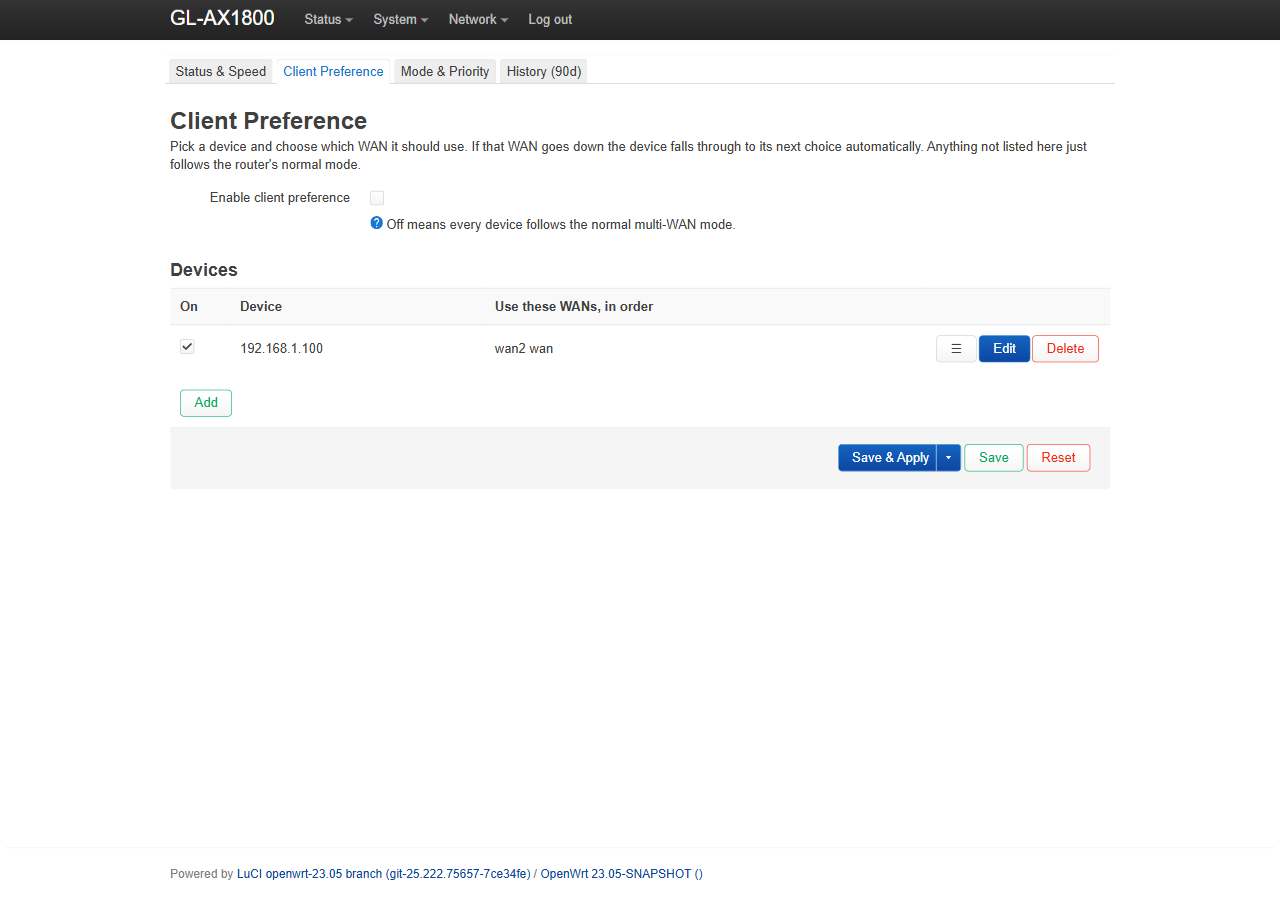
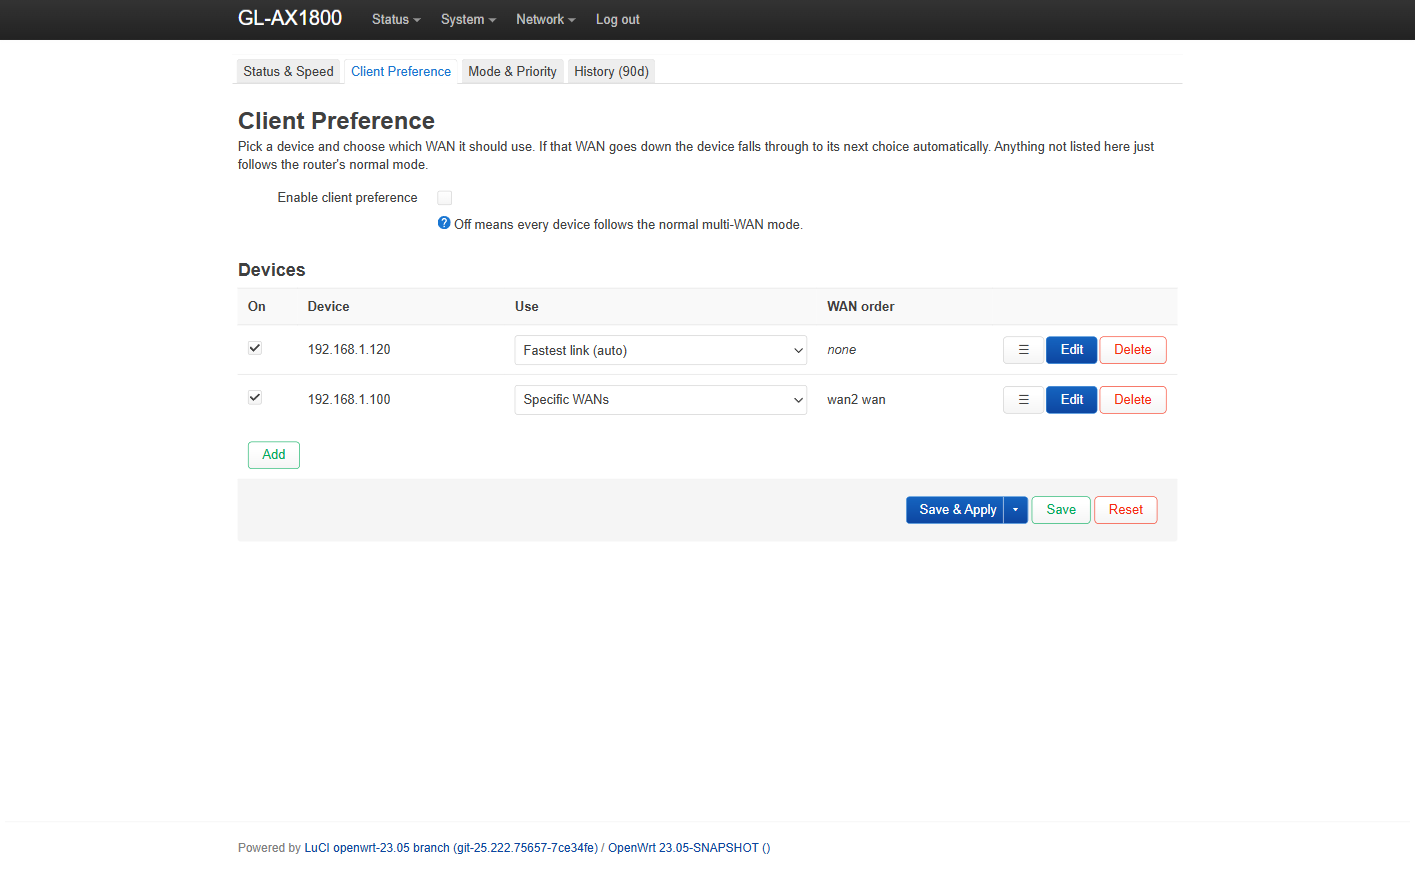
Client preference roles (fastest/slowest/backup); rename to MultiKmwan
- Client rules gain a mode: order | fastest | slowest | backup, resolved each
  sync so role clients follow the latest measurements
- Full rename MultiKwan -> MultiKmwan (package, config, paths, ubus, repo)
- Per-WAN colours consistent across cards, graphs and history
- Fastest mode, up/down split graph, rank-by selector, metered links
- Persistence via uci-defaults (survives upgrade/reinstall/remove)
- Simplified README; full docs in the wiki

diff --git a/htdocs/luci-static/resources/view/multikmwan/overview.js b/htdocs/luci-static/resources/view/multikmwan/overview.js
@@ -183,7 +183,9 @@ return view.extend({
 				_('No client rules configured. Add devices on the Client Preference page.'));
 
 		var prefOff = (d.enabled !== '1');
+		var roleLabel = { fastest: _('Fastest link'), slowest: _('Slowest link'), backup: _('Backup link') };
 		var rows = clients.map(function(c) {
+			var role = c.mode && c.mode !== 'order' ? c.mode : null;
 			var order = (c.order || '').trim().split(/\s+/).filter(Boolean);
 			var live = c.live && !prefOff;
 			var badge = c.enabled !== '1'
@@ -195,12 +197,14 @@ return view.extend({
 				E('span', { 'class': 'mk-pill mk-' + badge.cls }, badge.t),
 				E('b', {}, (c.label && c.label !== '') ? c.label : c.src),
 				E('span', { 'class': 'mk-dim' }, ' ' + c.src + '  →  '),
-				E('span', {}, order.map(function(w, i) {
-					return E('span', {}, [
-						E('span', { 'class': 'mk-dot',
-							'style': 'background:' + (wanColor[w] || '#888') }),
-						w + (i < order.length - 1 ? '  ›  ' : '') ]);
-				}))
+				role
+					? E('b', {}, roleLabel[role] || role)
+					: E('span', {}, order.map(function(w, i) {
+						return E('span', {}, [
+							E('span', { 'class': 'mk-dot',
+								'style': 'background:' + (wanColor[w] || '#888') }),
+							w + (i < order.length - 1 ? '  ›  ' : '') ]);
+					}))
 			]);
 		});
 		var note = prefOff

diff --git a/htdocs/luci-static/resources/view/multikmwan/clients.js b/htdocs/luci-static/resources/view/multikmwan/clients.js
@@ -61,8 +61,19 @@ return view.extend({
 			o.value(h.ip, nm + ' — ' + h.ip + (h.static ? '' : _(' (dynamic lease)')));
 		});
 
-		o = s.option(form.DynamicList, 'order', _('Use these WANs, in order'),
+		o = s.option(form.ListValue, 'mode', _('Use'),
+			_('Pick specific WANs, or a role that follows measurements: Fastest / ' +
+			  'Slowest track the latest speed test; Backup uses metered links first.'));
+		o.value('order', _('Specific WANs'));
+		o.value('fastest', _('Fastest link (auto)'));
+		o.value('slowest', _('Slowest link (auto)'));
+		o.value('backup', _('Backup link'));
+		o.default = 'order';
+		o.editable = true;
+
+		o = s.option(form.DynamicList, 'order', _('WAN order'),
 			_('First one that is up wins.'));
+		o.depends('mode', 'order');
 		var members = uci.sections('kmwan', 'member');
 		for (var i = 0; i < members.length; i++) {
 			var n = members[i]['.name'];

diff --git a/README.md b/README.md
@@ -1,6 +1,6 @@
-# MultiKwan
+# MultiKmwan
 
-**A LuCI web UI for GL.iNet's built-in multi-WAN engine (`kmwan`).** It lets you switch between failover, load-balance, and a "fastest" mode; give individual LAN devices a preferred WAN; speed-test each line (against a public server or your own) and auto-rank the fastest with hysteresis so it doesn't flap; flag metered links as backup-only; and keep 90 days of per-WAN uptime, outage and speed history — all by driving the stock `kmwan` module rather than replacing it, so nothing about your GL.iNet setup is forked or lost.
+**A LuCI web UI for GL.iNet's built-in multi-WAN engine (`kmwan`).** It lets you switch between failover, load-balance, and a "fastest" mode; give individual LAN devices a preferred WAN (a specific order, or a role that follows measurements: fastest, slowest, or backup); speed-test each line (against a public server or your own) and auto-rank the fastest with hysteresis so it doesn't flap; flag metered links as backup-only; and keep 90 days of per-WAN uptime, outage and speed history — all by driving the stock `kmwan` module rather than replacing it, so nothing about your GL.iNet setup is forked or lost.
 
 | Status & Speed | 90-Day History |
 |---|---|
@@ -15,11 +15,11 @@
 LuCI on GL.iNet is on **port 8080**. Download the `.ipk` from [Releases](../../releases):
 
 ```sh
-scp luci-app-multikwan_*.ipk root@192.168.8.1:/tmp/
-ssh root@192.168.8.1 "opkg install /tmp/luci-app-multikwan_*.ipk"
+scp luci-app-multikmwan_*.ipk root@192.168.8.1:/tmp/
+ssh root@192.168.8.1 "opkg install /tmp/luci-app-multikmwan_*.ipk"
 ```
 
-Then open **Network → MultiKwan**. Requires a GL.iNet 4.x device with `kmwan` and LuCI; the package is architecture-independent.
+Then open **Network → MultiKmwan**. Requires a GL.iNet 4.x device with `kmwan` and LuCI; the package is architecture-independent.
 
 **Tested on:** GL-AX1800 (Flint), OpenWrt 23.05 / GL SDK4, `kmwan` 5.4.164, with three wired WANs.
 
